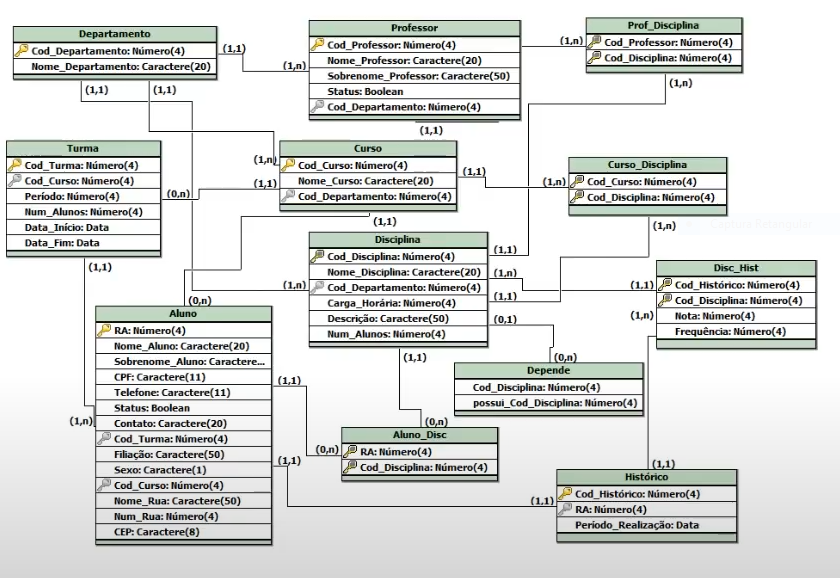
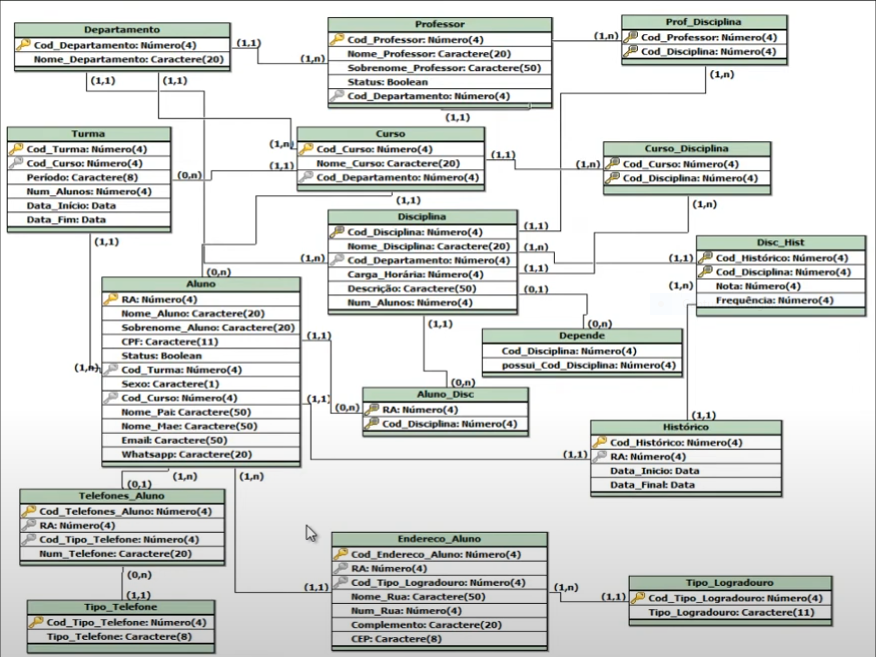
updating DLD, entities and atributtes dictionary

diff --git a/Dicionário-de-Dados/Dicionario-Atributos.md b/Dicionário-de-Dados/Dicionario-Atributos.md
@@ -3,18 +3,18 @@
 
 | Atributo | Tipos de dados | Comprimento | Restrições | Descrição |
 | ------- | ------- | ------- |------| ------|
-|Cod_departamento| inteiro    |   4 bytes| PK, NOT NULL | Código de identificação do departamento |
-|Nome_departamento|     caractere | 40 bytes    | NOT NULL |Nome do departamento |
+|Cod_departamento| inteiro    |   2 bytes | PK, NOT NULL | Código de identificação do departamento |
+|Nome_departamento| caractere | 40 bytes    | NOT NULL |Nome do departamento |
 ---
 
 - ## Entidade Professor
 
 | Atributo | Tipos de dados | Comprimento | Restrições | Descrição |
 | ------- | ------- | ------- |------| ------|
-|Cod_professor| inteiro    |   4 bytes| PK, NOT NULL | Código de identificação do professor |
-|Nome_professor|  caractere | 40 bytes    | NOT NULL |Nome do professor |
-|sobrenome_professor|   caractere | 40 bytes    | NOT NULL |Sobrenome do professor |
-|Cod_departamento| inteiro    |   4 bytes| FK, NOT NULL | Código de identificação do departamento |
+|Cod_professor| inteiro    |   4 bytes | PK, NOT NULL | Código de identificação do professor |
+|Nome_professor|  caractere | 20 bytes    | NOT NULL |Nome do professor |
+|sobrenome_professor|   caractere | 50 bytes    | NOT NULL |Sobrenome do professor |
+|Cod_departamento| inteiro    |   2 bytes| FK, NOT NULL | Código de identificação do departamento |
 | status|   boolean | 1 bit    | NOT NULL | status do professor (lecionando/ não lecionando) |
 ---
 
@@ -22,92 +22,133 @@
 
 | Atributo | Tipos de dados | Comprimento | Restrições | Descrição |
 | ------- | ------- | ------- |------| ------|
-|Cod_curso| inteiro    |   4 bytes| PK, NOT NULL | Código de identificação do curso |
-|Nome_curso|     caractere | 40 bytes    | NOT NULL |Nome do curso |
-|Cod_departamento| inteiro    |   4 bytes| FK, NOT NULL | Código de identificação do departamento |
+|Cod_curso| inteiro |   2 bytes| PK, NOT NULL | Código de identificação do curso |
+|Nome_curso| caractere | 40 bytes | NOT NULL |Nome do curso |
+|Cod_departamento| inteiro | 2 bytes | FK, NOT NULL | Código de identificação do departamento |
 ---
 
 - ## Entidade Turma
 
 | Atributo | Tipos de dados | Comprimento | Restrições | Descrição |
 | ------- | ------- | ------- |------| ------|
-|Cod_turma | inteiro    |   4 bytes | PK, NOT NULL | Código de identificação da turma |
-|Cod_curso |  inteiro | 4 bytes    | FK, NOT NULL |código de identificação do curso |
-|Perodo |   caractere | 10 bytes    | NOT NULL |  Período da turma (manhã ou tarde) |
-|Num_alunos | inteiro    |   2 bytes | NOT NULL | Numero de alunos matriculados na turma |
-| Data_inicio |   Data | 4 bytes    | NOT NULL | data de início da turma |
-| Data_fim |   Data | 4 bytes    | NOT NULL | data de fim da turma |
+|Cod_turma | inteiro    | 2 bytes | PK, NOT NULL | Código de identificação da turma |
+|Cod_curso |  inteiro | 2 bytes | FK, NOT NULL |código de identificação do curso |
+|Perodo | caractere | 5 bytes | NOT NULL |  Período da turma (manhã ou tarde) |
+|Num_alunos | inteiro | 2 bytes | NOT NULL | Numero de alunos matriculados na turma |
+| Data_inicio | Data | 4 bytes | NOT NULL | data de início da turma |
+| Data_fim | Data | 4 bytes | NOT NULL | data de fim da turma |
 ---
 
 - ## Entidade Aluno
 
 | Atributo | Tipos de dados | Comprimento | Restrições | Descrição |
 | ------- | ------- | ------- |------| ------|
-|RA | caractere    |   8 bytes | PK, NOT NULL | Código de identificação do aluno |
-|Nome_aluno |  caractere | 25 bytes    | NOT NULL | nome do aluno |
-|Sobrenome_aluno |   caractere | 40 bytes    | NOT NULL |  sobrenome do aluno|
-|CPF | caractere    |   40 bytes | NOT NULL | CPF do aluno |
-|Telefone | caractere    |   40 bytes | NOT NULL | telefone do aluno |
-| Status |  caractere | 1 bit    | NOT NULL | status da matricula do aluno |
-| Contato |  caractere | 40 bytes    | NOT NULL | Formas de contato com o aluno |
-| Cod_turma |  inteiro | 4 bytes    | FK, NOT NULL | código de identificação da turma |
-| Cod_curso |  inteiro | 4 bytes    | FK, NOT NULL | código de identificação do curso |
-| sexo |  caractere | 1 bit    | NOT NULL | sexo do aluno |
-| Filiação |  caractere | 80 bytes    | NOT NULL | nome da mãe do aluno |
-| Endereço |  rua número CEP | 80B, 10B, 10B    | NOT NULL | Endereço do aluno dividido em rua, número e cep |
+|RA | caractere | 9 bytes | PK, NOT NULL | Código de identificação do aluno |
+|Nome_aluno | caractere | 20 bytes | NOT NULL | nome do aluno |
+|Sobrenome_aluno | caractere | 50 bytes | NOT NULL |  sobrenome do aluno|
+|CPF | caractere | 11 bytes | NOT NULL, UNIQUE | CPF do aluno |
+|Telefone | caractere | 40 bytes | NOT NULL | telefone do aluno |
+| Status | caractere | 1 bit | NOT NULL | status da matricula do aluno |
+| email | caractere | 60 bytes | NOT NULL | email do aluno |
+| WhatsApp | caractere | 11 bytes | NULL | WhatsApp do aluno |
+| Cod_turma | inteiro | 2 bytes | FK, NOT NULL | código de identificação da turma |
+| Cod_curso | inteiro | 2 bytes | FK, NOT NULL | código de identificação do curso |
+| sexo | caractere | 1 bit | NOT NULL | sexo do aluno |
+| Nome_Mãe |  caractere | 80 bytes | NOT NULL | nome da mãe do aluno |
+| Nome_Pai|  caractere | 80 bytes | NULL | nome do Pai do aluno |
 ---
 
 - ## Entidade Disciplina
 
 | Atributo | Tipos de dados | Comprimento | Restrições | Descrição |
 | ------- | ------- | ------- |------| ------|
-|Cod_disciplina | inteiro    |   4 bytes | PK, NOT NULL | Código de identificação da disciplina |
-|Nome_disciplina |  caractere | 30 B    | NOT NULL | nome da disciplina |
-|Descrição |   caractere | 200 B    | NULL |  descrição da disciplina |
-|Cod_departamento | inteiro    |   4 bytes | FK, NOT NULL | Código de identificação do departamento |
-|carga_horária | inteiro    |   4 bytes | NOT NULL | Carga horária da disciplina |
-| num_alunos |  inteiro  | 4 bytes    | NOT NULL | numero de alunos da disciplina |
+|Cod_disciplina | inteiro | 2 bytes | PK, NOT NULL | Código de identificação da disciplina |
+|Nome_disciplina | caractere | 30 bytes | NOT NULL | nome da disciplina |
+|Descrição | caractere | 200 bytes | NULL |  descrição da disciplina |
+|Cod_departamento | inteiro | 2 bytes | FK, NOT NULL | Código de identificação do departamento |
+|carga_horária | inteiro | 2 bytes | NOT NULL | Carga horária da disciplina |
+| num_alunos | inteiro | 2 bytes | NOT NULL | numero de alunos da disciplina |
 ---
 
 - ## Entidade Histórico
 
 | Atributo | Tipos de dados | Comprimento | Restrições | Descrição |
 | ------- | ------- | ------- |------| ------|
-|Cod_historico | inteiro    |   4 bytes | PK, NOT NULL | Código de identificação do histórico |
-|RA |  caractere | 8 bytes    | FK, NOT NULL | código de identificação do aluno |
-| Periodo_realização |  inteiro  | 4 B    | NOT NULL |   duração da disciplina em meses |
+|Cod_historico | inteiro | 2 bytes | PK, NOT NULL | Código de identificação do histórico |
+|RA |  caractere | 9 bytes | FK, NOT NULL | código de identificação do aluno |
+| Data_inicio | inteiro | 4 bytes | NOT NULL |   data do inicio da disciplina |
+| Data_final | inteiro | 4 bytes | NULL |   data do fim da disciplina |
+---
+
+- ## Entidade Endereco_Aluno
+
+| Atributo | Tipos de dados | Comprimento | Restrições | Descrição |
+| ------- | ------- | ------- |------| ------|
+|Cod_Endereco | inteiro | 1 bit | PK, NOT NULL | Código de identificação do endereço do aluno |
+|RA | caractere | 9 bytes | PK, FK, NOT NULL | Código de identificação do aluno |
+|Cod_Tipo_Logradouro | inteiro | 1 bytes | FK, NOT NULL | Código do tipo de logradouro |
+|Nome_rua | caractere | 50 bytes | NOT NULL | Nome da Rua |
+|Num_rua | inteiro | 2 bytes | NOT NULL | Numero da Rua |
+| Complemento | caractere | 20 bytes | NULL | Complemento |
+| CEP | caractere | 8 bytes | NULL | CEP da rua |
+---
+
+- ## Entidade Tipo_Logradouro
+
+| Atributo | Tipos de dados | Comprimento | Restrições | Descrição |
+| ------- | ------- | ------- |------| ------|
+| Cod_Tipo_Logradouro | inteiro | 1 bytes | PK, NOT NULL | Código do tipo de logradouro |
+| Tipo_Logradouro |  caractere | 10 bytes |  NOT NULL | Nome do tipo de Logradouro |
+---
+
+- ## Entidade Telefones_Aluno
+
+| Atributo | Tipos de dados | Comprimento | Restrições | Descrição |
+| ------- | ------- | ------- |------| ------|
+| Cod_Tel_Aluno | inteiro | 1 bytes | PK, NOT NULL | Código de identificação do telefone do aluno |
+| RA | caractere | 9 bytes | FK, NOT NULL | Código de identificação do aluno |
+| Cod_Tipo_Telefone | inteiro | 1 bytes | FK, NOT NULL | Código do tipo de telefone |
+| Telefone | caractere | 11 bytes | NOT NULL | Telefone do aluno |
+---
+
+- ## Entidade Tipo_Telefone
+
+| Atributo | Tipos de dados | Comprimento | Restrições | Descrição |
+| ------- | ------- | ------- |------| ------|
+| Cod_Tipo_Telefone | inteiro | 1 bytes | PK, NOT NULL | Código de identificação do tipo de telefone |
+| Tipo_Telefone | caractere | 12 bytes | NOT NULL | Nome do Tipo de telefone |
 ---
 
 - ## Entidade disc_hist (associativa)
 
 | Atributo | Tipos de dados | Comprimento | Restrições | Descrição |
 | ------- | ------- | ------- |------| ------|
-|Cod_historico | inteiro    |   4 bytes | PK, FK, NOT NULL | Código de identificação do histórico |
-|Cod_disciplina | inteiro    |   4 bytes | PK, FK, NOT NULL | Código de identificação da disciplina |
-| nota |  decimal | 8 bytes    | NOT NULL | Nota da disciplina |
-| frequência |  inteiro  | 4 bytes    | NOT NULL |  Número de faltas na disciplina |
+|Cod_historico | inteiro | 2 bytes | PK, FK, NOT NULL | Código de identificação do histórico |
+|Cod_disciplina | inteiro | 2 bytes | PK, FK, NOT NULL | Código de identificação da disciplina |
+| nota | decimal | 8 bytes | NOT NULL | Nota da disciplina |
+| Frequência | inteiro | 2 bytes | NOT NULL |  Número de faltas na disciplina |
 ---
 
 - ## Entidade curso_disciplina (associativa)
 
 | Atributo | Tipos de dados | Comprimento | Restrições | Descrição |
 | ------- | ------- | ------- |------| ------|
-|Cod_curso | inteiro |   4 bytes | PK, FK, NOT NULL | Código de identificação do curso |
-|Cod_disciplina | inteiro  |   4 bytes | PK, FK, NOT NULL | Código de identificação da disciplina |
+|Cod_curso | inteiro | 2 bytes | PK, FK, NOT NULL | Código de identificação do curso |
+|Cod_disciplina | inteiro | 2 bytes | PK, FK, NOT NULL | Código de identificação da disciplina |
 ---
 
 - ## Entidade prof_disciplina (associativa)
 
 | Atributo | Tipos de dados | Comprimento | Restrições | Descrição |
 | ------- | ------- | ------- |------| ------|
-|Cod_professor | inteiro |   4 bytes | PK, FK, NOT NULL | Código de identificação do professor |
-|Cod_disciplina | inteiro  |   4 bytes | PK, FK, NOT NULL | Código de identificação da disciplina |
+|Cod_professor | inteiro | 2 bytes | PK, FK, NOT NULL | Código de identificação do professor |
+|Cod_disciplina | inteiro | 2 bytes | PK, FK, NOT NULL | Código de identificação da disciplina |
 ---
 
 - ## Entidade Aluno_disc (associativa)
 
 | Atributo | Tipos de dados | Comprimento | Restrições | Descrição |
 | ------- | ------- | ------- |------| ------|
-|Cod_Aluno | caractere |   8 bytes | PK, FK, NOT NULL | Código de identificação do aluno |
-|Cod_disciplina | inteiro  |   4 bytes | PK, FK, NOT NULL | Código de identificação da disciplina |
+|Cod_Aluno | caractere | 9 bytes | PK, FK, NOT NULL | Código de identificação do aluno |
+|Cod_disciplina | inteiro | 2 bytes | PK, FK, NOT NULL | Código de identificação da disciplina |
 ---

diff --git a/Dicionário-de-Dados/Dicionario-Entidades.md b/Dicionário-de-Dados/Dicionario-Entidades.md
@@ -10,19 +10,24 @@
 | Entidade | Relacionamento | Nome do Relacionamento | Descrição |
 | ------- | ------- | ------- |------|
 |Curso|     Departamento, turma, Aluno, curso_disciplina   |    Controle, gera, está matriculado, possui      | Tabela para o cadastro dos cursos oferecidos pela faculdade |
-|Aluno|     Curso, turma, disciplina e histórico    |     Está matriculado, pertence, cursa e pertence a      | Tabela para cadastro dos alunos da faculdade |
+|Aluno|     Curso, turma, Aluno_disc, histórico e Telefone_Aluno    |     Está matriculado, pertence, cursa, pertence a, possui      | Tabela para cadastro dos alunos da faculdade |
+| Endereco_Aluno |     Aluno e Tipo_Logradouro   | possui, é do tipo    | Tabela para registro dos endereços dos Alunos |
+| Tipo_Logradouro |  Endereco_Aluno  |  Compõe  | Tabela para registro dos tipos de logradouro |
+| Telefones_Aluno |  Aluno, Tipo_Telefone  |  possui e pertence  | Tabela para registro dos telefones dos alunos  |
+| Tipo_Telefone |  Telefone_Aluno  |  define  | Descrição dos tipos de telefones aceitos  |
+
 
 ---
 | Entidade | Relacionamento | Nome do Relacionamento | Descrição |
 | ------- | ------- | ------- |------|
-|Disciplina|     Aluno, Departamento, Prof_disciplina, curso_disciplina, Disciplina, disc_hist   |    cursa, gerencia, é lecionada, pertence, depende, compõe, pertence, depende, compõem, pertence a, é composto | Tabela para cadastro das disciplinas que compõem os cursos oferecidos pela faculdade |
+|Disciplina|     Aluno_disc, Aluno, Departamento, Prof_disciplina, curso_disciplina, Disciplina, disc_hist  |    cursa, Pertence a, gerencia, é lecionada, pertence, depende, compõe, pertence, depende, compõem, é composto | Tabela para cadastro das disciplinas que compõem os cursos oferecidos pela faculdade |
 |Histórico|     Aluno, disc_Hist    |     pertence a, e é composto      | Tabela para geração do histórico de notas dos alunos da faculdade |
 
 ### Dicionario de dados: Entidades Associativas
 ---
 | Entidade | Relacionamento | Nome do Relacionamento | Descrição |
 | ------- | ------- | ------- |------|
-|Disc_Hist| Disciplina e Historico    |   compõe, é composto | Tabela associativa entre Disciplina e Histórico |
-|Curso_Disciplina|     Curso e Disciplina    |     possui e pertence    | Tabela associativa entre Curso e Disciplina |
-|Prof_Disciplina|     Professor e Disciplina   | Leciona, é lecionada    | Tabela associativa entre Professor e Disciplina |
-|Aluno_disc|     Aluno e Disciplina   | cursa, é cursada    | Tabela associativa entre Aluno e Disciplina |
+| Disc_Hist | Disciplina e Historico    |   compõe, é composto | Tabela associativa entre Disciplina e Histórico |
+| Curso_Disciplina |     Curso e Disciplina    |     possui e pertence    | Tabela associativa entre Curso e Disciplina |
+| Prof_Disciplina |     Professor e Disciplina   | Leciona, é lecionada    | Tabela associativa entre Professor e Disciplina |
+| Aluno_disc |     Aluno e Disciplina   | cursa, é cursada    | Tabela associativa entre Aluno e Disciplina |
